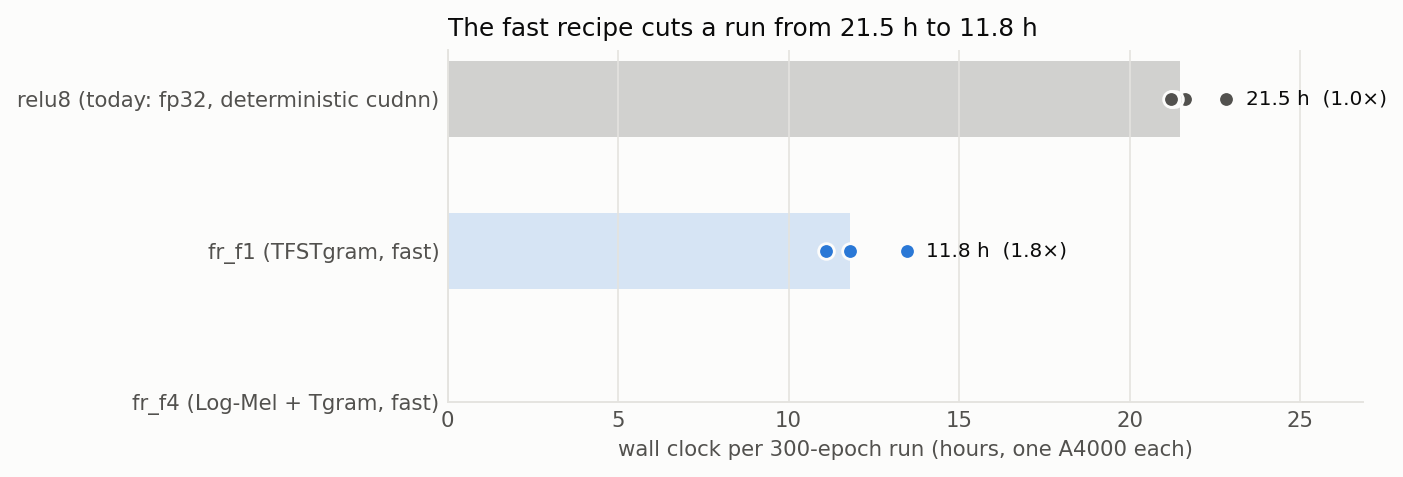
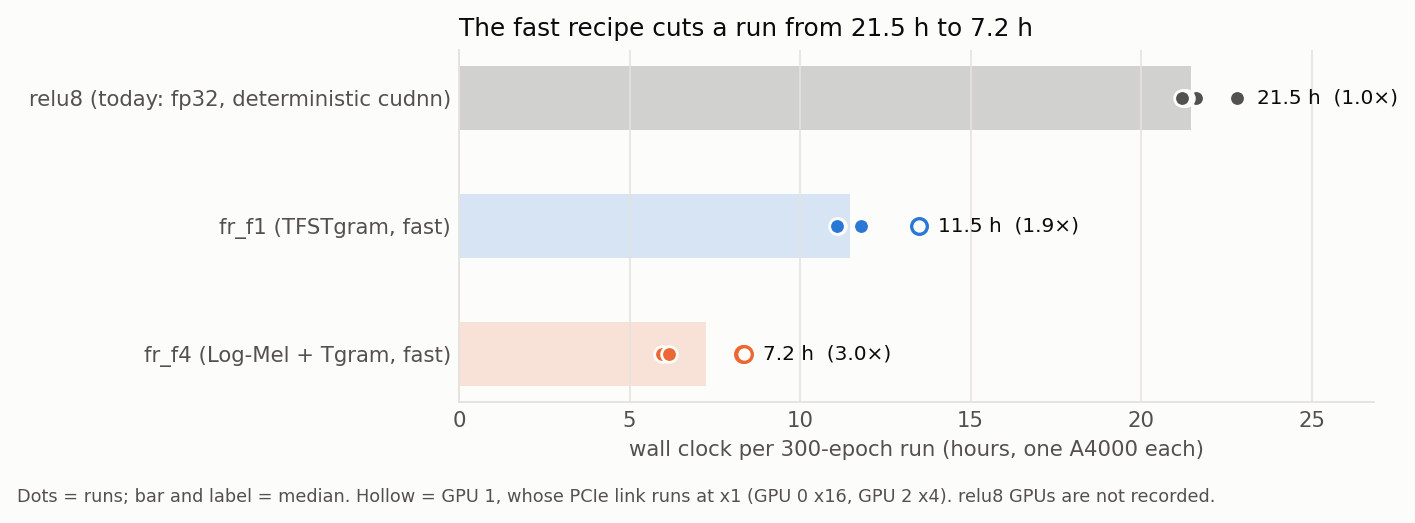
fast-recipe write-up: D1 adopt (f1 = relu8 +0.03 dev), D2 -> fussion 1, D3 test-set selection worth +0.02

diff --git a/ablation/fast-recipe/make_plots.py b/ablation/fast-recipe/make_plots.py
@@ -95,12 +95,15 @@ def paper_line(ax, y, text, xfrac=0.0, ha='left'):
 def fig1_speed():
     old = rows(os.path.join(SCORES, 'relu8_wall.csv'))
     hours = {'relu8': [int(r['seconds']) / 3600 for r in old] if old else []}
+    slow = {}                       # runs on GPU 1, whose PCIe link trained at x1 (README, Results)
     for arm, _, _ in ARMS:
         hours[arm] = []
+        slow[arm] = []
         for run in runs(arm):
             w = rows(os.path.join(SCORES, run, 'wall.csv'))
             if w:
                 hours[arm].append(int(w[0]['seconds']) / 3600)
+                slow[arm].append(w[0].get('gpu') == '1')
     if not hours['relu8'] or not any(hours[a] for a, _, _ in ARMS):
         print('skip fig1: wall-clock inputs missing')
         return
@@ -113,7 +116,11 @@ def fig1_speed():
             continue
         med = np.median(h)
         ax.barh(y, med, height=0.5, color=col, alpha=0.18 if key != 'relu8' else 0.25, zorder=1)
-        ax.scatter(h, [y] * len(h), s=44, color=col, edgecolor=SURFACE, lw=1.2, zorder=3)
+        sl = slow.get(key, [False] * len(h))
+        hh = [v for v, q in zip(h, sl) if not q]
+        hs = [v for v, q in zip(h, sl) if q]
+        ax.scatter(hh, [y] * len(hh), s=44, color=col, edgecolor=SURFACE, lw=1.2, zorder=3)
+        ax.scatter(hs, [y] * len(hs), s=44, color=SURFACE, edgecolor=col, lw=1.4, zorder=3)
         ax.annotate(f'{med:.1f} h  ({base / med:.1f}×)', (max(h), y), xytext=(8, 0), textcoords='offset points',
                     va='center', fontsize=8.5, color=INK)
     ax.set_yticks(range(len(order)), [o[1] for o in reversed(order)])
@@ -123,6 +130,8 @@ def fig1_speed():
     fast = min(np.median(hours[a]) for a, _, _ in ARMS if hours[a])
     ax.set_title(f'The fast recipe cuts a run from {base:.1f} h to {fast:.1f} h', loc='left', fontsize=10.5)
     fig.tight_layout()
+    fig.text(0.01, -0.03, 'Dots = runs; bar and label = median. Hollow = GPU 1, whose PCIe link runs at x1 '
+             '(GPU 0 x16, GPU 2 x4). relu8 GPUs are not recorded.', fontsize=7.5, color=INK_2)
     save(fig, 'fig1_speed.png')
 
 
@@ -232,7 +241,7 @@ def fig4_oracle_by_machine():
     ax.set_xticks(range(len(MACH)), MACH)
     ax.set_ylabel('dev AUC at best probed epoch\n− saved checkpoint (points)')
     ax.grid(axis='y')
-    ax.legend(loc='upper right', fontsize=8)
+    ax.legend(loc='upper left', fontsize=8)
     allg = np.concatenate([np.array(g) for g in gains.values() if len(g)])
     top = MACH[int(np.argmax(allg.mean(0)))]
     ax.set_title(f'Where test-set selection would gain: most in {top}', loc='left', fontsize=10.5)

diff --git a/ablation/fast-recipe/README.md b/ablation/fast-recipe/README.md
@@ -1,9 +1,18 @@
 # Fast recipe: a 2–4× faster training recipe, and how much test-set selection is worth
 
-> **Status: pre-registered 2026-10-17. Nothing trained yet.** Phase 0 of the
-> post-confirm-seeds plan. Phases 1–3 (Log-Mel gating, waveform augmentation,
-> ECA, a shared-trunk weight soup, a pretrained teacher) need many 4-seed arms.
-> At 21.5 h per run on this host's A4000s, that is weeks.
+> **Status: done (runs scored 2026-10-19; written up 2026-10-23).**
+>
+> - **D1, adopt the fast recipe.** It leaves the paper model unchanged: `fr_f1`
+>   − relu8 = +0.03 dev / −0.13 eval AUC, and P2 holds. It is 1.9× faster for
+>   `fr_f1` and 3.0× for `fr_f4`. Every later ablation already uses it.
+> - **D2 → Phase 1 builds on `fussion 1`, not 4.**
+>   - Dropping TFgram costs −0.40 dev but gains +0.81 eval.
+>   - D2 needs both sets to be ≥ −0.15, so the dev cost fails it.
+> - **D3: test-set epoch selection is worth almost nothing.** It adds +0.02
+>   dev to `fr_f1`, and the best probed epoch of any seed is 95.28, below the
+>   paper's 95.71.
+>
+> Phase 0 of the post-confirm-seeds plan, pre-registered 2026-10-17.
 
 ## Why this exists
 
@@ -166,8 +175,166 @@ relu8 R0     dev AUC  94.60 .. 95.15   mean 94.86  sd 0.19
 
 ## Results
 
-*(empty until the runs finish)*
+**Runs.** All 8 runs trained 2026-10-17 19:06 to 2026-10-19 01:22, one per
+GPU (`run.sh` queue via `run_one.sh`).
+
+- **Crash.** `fr_f4_s2040` died at epoch 214 with a general-protection fault
+  in python (rc 139). That is the faulty host RAM; see above and CLAUDE.md.
+  - This recipe has no crash-resume, so the run was redone from scratch with
+    the same seed, and the recorded `fr_f4_s2040` is that rerun.
+  - The first attempt's probe is kept in
+    `scores/crashes/fr_f4_s2040_attempt1_probe.csv`. It was at 95.10 dev AUC
+    (probe) when it died.
+  - Because smartlab1 is not bit-deterministic, the rerun is another noise
+    draw, not a copy.
+- **Health.** The other 7 runs and the rerun logged 0 skipped (non-finite)
+  steps and 0 cache range-check repairs.
+- **Reconstructed timing.** `fr_f4_s2043`'s `wall.csv` was never written: the
+  queue ended before its done line. It was rebuilt from its `config.json` and
+  `probe.csv` mtimes (30 071 s), which agrees with the queue log, 17:00:39 to
+  01:21:54.
+
+### Speed (P1)
+
+| arm | per run (h), by GPU | median | per epoch | vs relu8 (21.47 h) |
+|---|---|---|---|---|
+| relu8 (today's recipe) | 21.2–22.9 (GPUs not recorded) | 21.47 | 4.29 min | 1.0× |
+| `fr_f1` | 11.11 (0), **13.48 (1)**, 11.79 (2), 11.07 (0) | 11.45 | 2.29 min | **1.87×** |
+| `fr_f4` | 5.95 (0), **8.32 (1)**, 6.14 (2), **8.35 (1)** | 7.23 | 1.45 min | **2.97×** |
+
+**P1 is half right.**
+- `fr_f1` is 1.87× faster, which meets the ≥ 1.8× bar.
+- `fr_f4` is 2.97× faster, short of the ≥ 3.5× bar.
+- The bench's step rates (4.3× for f4) overstate the end-to-end gain:
+  validation, the probe and data loading do not shrink with fp16.
+
+**GPU 1 is slow** (found here, not pre-registered).
+- Every run on GPU 1 took 20–40% longer than the same arm on GPUs 0 or 2.
+  `margin-warmup` repeats the pattern: f6 took 13.1 h on GPU 1 against
+  10.7–10.9 h elsewhere.
+- `nvidia-smi` reports GPU 1's PCIe link at **x1** (max x16). GPU 2 is at x4
+  and GPU 0 at x16. All three have the same power limit and clocks.
+- This was read at idle and not re-checked under load. A batch of 64
+  ten-second waveforms is ~41 MB per step, so an x1 link plausibly explains
+  the gap.
+- On GPUs 0 and 2 alone, `fr_f1` is 1.93× and `fr_f4` 3.55× faster, which
+  would pass P1. As registered, with all four runs, P1 fails for `fr_f4`.
+- **Practical rule:** put the longest arm on GPU 0, and don't compare
+  wall-clock across GPUs.
+
+### Accuracy (P2, P3)
+
+eval.py R0 overall AUC; per-seed values in seed order (relu8 is s2024–2031).
+
+| arm | dev AUC | mean (sd) | eval AUC | mean (sd) |
+|---|---|---|---|---|
+| relu8 | 94.97 94.60 95.06 94.66 95.15 94.94 94.79 94.74 | 94.86 (0.20) | 95.20 95.53 95.27 95.86 95.44 95.09 95.02 95.57 | 95.38 (0.28) |
+| `fr_f1` | 94.52 95.26 94.70 95.10 | **94.90** (0.34) | 95.07 95.59 95.31 95.02 | **95.25** (0.26) |
+| `fr_f4` | 94.10 94.63 94.86 94.39 | **94.49** (0.33) | 96.25 96.25 96.18 95.56 | **96.06** (0.34) |
+
+Contrasts are differences of means, with Welch se and a bootstrap 95%
+interval (20 000 resamples).
+
+| contrast | dev AUC | eval AUC | dev pAUC | eval pAUC |
+|---|---|---|---|---|
+| `fr_f1` − relu8 | **+0.03** (0.19) [−0.28, +0.35] | **−0.13** (0.16) [−0.41, +0.17] | −0.10 (0.25) | −0.51 (0.21) |
+| `fr_f4` − `fr_f1` | **−0.40** (0.24) [−0.80, −0.01] | **+0.81** (0.21) [+0.42, +1.13] | −0.15 (0.25) [−0.55, +0.30] | +1.09 (0.23) [+0.69, +1.45] |
+
+mAUC is left out of the contrasts: its seed sd is 0.4–1.2, and per CLAUDE.md,
+deltas under ~2 points are unresolvable. The means are in `make_plots.py`'s
+inputs.
+
+**P2 holds.**
+- `fr_f1` dev 94.90 is inside [94.56, 95.16], and eval 95.25 is inside
+  [94.98, 95.78].
+- The lowest seed, 94.52, is 0.08 below relu8's minimum (94.60), inside the
+  0.3 allowance.
+- The fast recipe is indistinguishable from today's on AUC.
+- The one soft spot is eval pAUC at −0.51 (se 0.21), about 2.4 se. It was
+  not a registered criterion, and with 4 vs 8 runs on one secondary metric
+  it is reported, not acted on.
+
+**P3 fails.** `fr_f4` − `fr_f1` = −0.40 dev, just outside [−0.3, +0.4], and
++0.81 eval. Dropping TFgram on the fast recipe splits by dataset.
+- **Mostly ToyConveyor.** Per-machine means show it moving both ways: dev
+  −2.0 (80.13 vs 82.14), eval +4.2 (85.05 vs 80.81). ToyConveyor's seed noise
+  is above 4 points.
+- **Elsewhere, small moves:**
+  - eval: valve +0.7, slider +0.4
+  - dev: ToyCar −0.5
+- **Earlier host.** `../seed-sweep` measured f4 − f1 = +0.20 dev and +0.38
+  eval there. The eval direction replicates; the dev direction does not.
+
+### Decisions
+
+- **D1 → adopt the fast recipe.** Every later arm uses `--amp fp16
+  --cudnn_bench 1 --lean 1 --cache_dir data/cache --probe_every 5`, with
+  baselines trained on that same recipe. `../no-logmel` and `../margin-warmup`
+  already used `fr_f1`/`fr_f4` as their paired baselines.
+- **D2 → Phase 1 builds on `fussion 1`.**
+  - The rule needs `fr_f4` ≥ `fr_f1` − 0.15 on dev *and* eval. Eval passes by
+    a wide margin (+0.81); dev fails (−0.40).
+  - So `../lit-arms` launches with `LA_FUSSION=1`. The paper model also keeps
+    D1's comparison like-for-like.
+  - On the eval set, f4 is the better single model: 96.06 vs 95.25. That is
+    worth noting for any eval-facing number, but it does not override the
+    registered rule.
+  - `../no-logmel` later found that Log-Mel alone (f2) is within ~0.8 of
+    `fr_f1` and faster still.
+
+### Test-set selection (P4, P5, D3)
+
+`probe.csv` scores the EMA net on the dev test set every 5 epochs, never for
+selection. Oracle gain = the best probed epoch's dev AUC − the saved
+checkpoint's (eval.py).
+
+| run | saved (val loss) | best probed (epoch) | oracle gain |
+|---|---|---|---|
+| `fr_f1_s2040` | 94.52 | 94.53 (289) | +0.01 |
+| `fr_f1_s2041` | 95.26 | **95.28** (269) | +0.01 |
+| `fr_f1_s2042` | 94.70 | 94.74 (279) | +0.04 |
+| `fr_f1_s2043` | 95.10 | 95.12 (284) | +0.03 |
+| `fr_f4_s2040` | 94.10 | 94.46 (204) | +0.36 |
+| `fr_f4_s2041` | 94.63 | 94.64 (284) | +0.02 |
+| `fr_f4_s2042` | 94.86 | 94.98 (244) | +0.12 |
+| `fr_f4_s2043` | 94.39 | 94.51 (224) | +0.12 |
+
+**P4 splits:**
+- **The gain is smaller than predicted.** `fr_f1`'s mean oracle gain is
+  **+0.02**, below the predicted +0.1 to +0.5. Its saved checkpoint is within
+  0.04 of the best epoch it ever reaches. `fr_f4`'s is +0.16, with its best
+  epochs earlier, at 204–284: it peaks and then drifts down by ~0.1–0.4.
+- **The ceiling part holds.** The best probed epoch over all `fr_f1` seeds is
+  **95.28 < 95.71**.
+
+**P5 holds.** ToyConveyor has the largest mean per-machine oracle gain in both
+arms: +0.12 for `fr_f1` and +0.83 for `fr_f4`. Pump is next at +0.06 and
++0.32 (fig4).
+
+**D3.** No seed, with no selection rule at all, reaches the paper's 95.71.
+- Test-set epoch selection does not explain the paper's dev number.
+- Neither does the EMA smoothing: alpha 0.9999 is a ~19-epoch time constant,
+  so the EMA net changes little from one 5-epoch probe to the next.
+- The gap to 95.71 (~0.4–0.8 points) has to come from somewhere else: seed
+  luck at n=1, a different recipe, or selection across runs rather than
+  across epochs. That is consistent with Table VI's "w/o FPH" 94.94, which
+  matches our 94.86–94.90.
+
+### What does not replicate or was not tested
+
+- **Determinism.** smartlab1 is not bit-deterministic (CLAUDE.md), and
+  `cudnn.benchmark` adds more non-determinism. The fast recipe is compared to
+  relu8 as a distribution (n=4 vs n=8), not run-for-run.
+- **Cross-host.** relu8 ran on the same host but its GPU assignment was not
+  recorded, so the speed ratio mixes GPUs.
+- **Untested components.** `torch.compile` crashed in planning and was not
+  pursued. bf16 autocast was not tried.
 
 ## Figures
 
-*(empty until the runs finish)*
+| file | shows |
+|---|---|
+| `plots/fig1_speed.png` | wall clock per 300-epoch run: relu8, `fr_f1`, `fr_f4`; hollow = GPU 1 (PCIe x1) |
+| `plots/fig2_auc.png` | per-seed dev/eval AUC (eval.py R0) for relu8, `fr_f1`, `fr_f4`, with the paper's 95.71 |
+| `plots/fig3_probe.png` | probed dev AUC vs epoch per seed; best probed epoch (dot) vs saved checkpoint (square) |
+| `plots/fig4_oracle_by_machine.png` | oracle gain by machine: best probed epoch − saved checkpoint |
